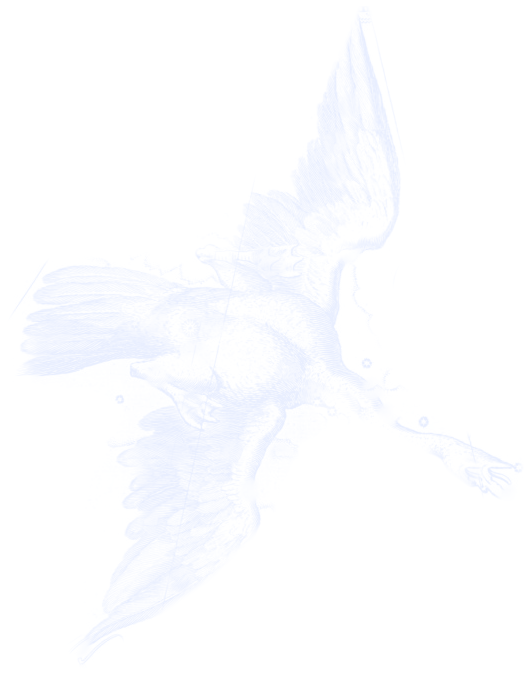
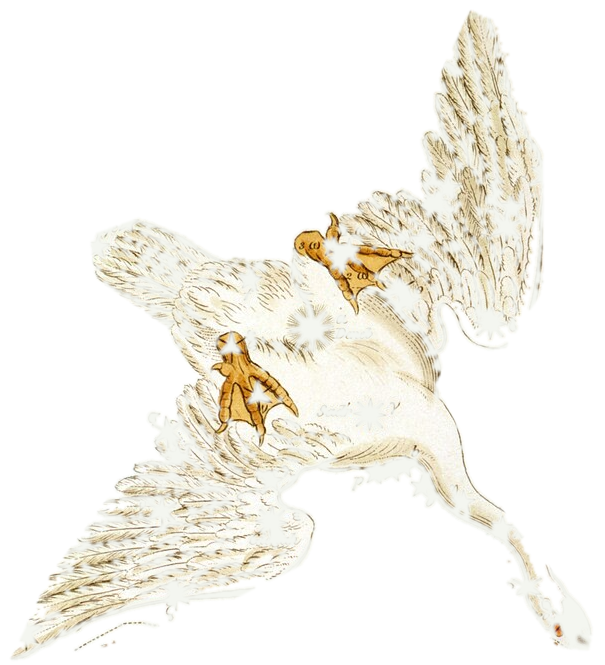
Labuť: postava z Urania's Mirror (S. Hall, 1824) místo Hevelia

Changed region(s): [[0.0, 0.0, 0.9057, 0.9925], [0.9057, 0.9323, 0.966, 0.9925], [0.2717, 0.9023, 0.3019, 0.9323]]

diff --git a/src/app/prvouka/PrvoukaStars.tsx b/src/app/prvouka/PrvoukaStars.tsx
@@ -811,10 +811,10 @@ function ConsTile({ c, on, hot = false, check = false, onClick, onHover }: { c: 
  * Obrázek je zrcadlově otočený (Hevelius kreslil jako na globu zvenku) a převedený na světlou linku.
  * Dvě kotvy: pixel hvězdy v obrázku → stejná hvězda v modelu; podle nich se obrázek posune, otočí a zvětší.
  */
-// Postavy ze starého atlasu (Hevelius 1690), zrcadlově otočené, jak je vidíme na obloze.
+// Postavy ze starého atlasu Urania's Mirror (Sidney Hall, 1824), kreslené tak, jak je vidíme na obloze.
 // Obrázek se umístí podle několika hvězd najednou (nejlepší shoda), ať sedí trup i křídla.
 const FIGURES: Record<string, { src: string; anchors: Array<[string, number, number]> }> = {
-  labut: { src: 'labut.png', anchors: [['albireo', 511, 496], ['albireo', 511, 496], ['albireo', 511, 496], ['deneb', 38, 345], ['sadr', 214, 327], ['deneb', 38, 345], ['gienah', 251, 490], ['cyg-delta', 335, 172]] },
+  labut: { src: 'labut.png', anchors: [['deneb', 310, 327], ['sadr', 370, 413], ['gienah', 270, 520], ['albireo', 557, 630], ['cyg-delta', 490, 325]] },
 };
 const figImg: Record<string, HTMLImageElement> = {};
 function drawFigure(ctx: CanvasRenderingContext2D, id: string, by: Record<string, { x: number; y: number }>) {
@@ -845,7 +845,7 @@ function drawFigure(ctx: CanvasRenderingContext2D, id: string, by: Record<string
     X = [a0, -b0, o1.q.x - a0 * o1.p.x + b0 * o1.p.y]; Y = [b0, a0, o1.q.y - b0 * o1.p.x - a0 * o1.p.y];
   }
   ctx.save();
-  ctx.globalAlpha = 0.42;
+  ctx.globalAlpha = 0.32;
   ctx.transform(X[0], Y[0], X[1], Y[1], X[2], Y[2]);
   ctx.drawImage(img, 0, 0);
   ctx.restore();
